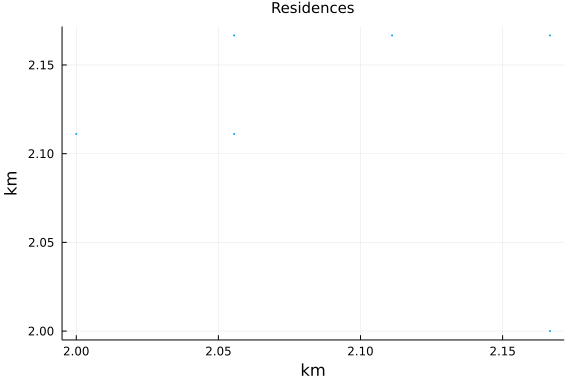
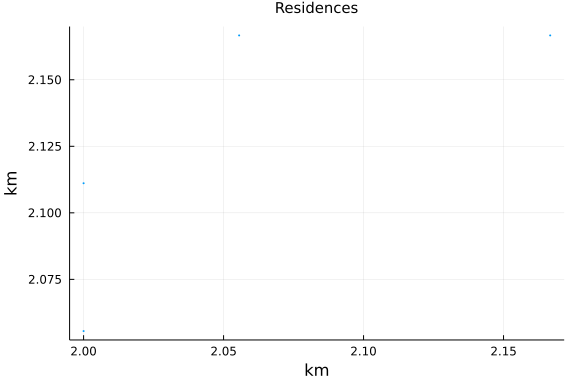
rename transition_rules; fix accumulating deceased

diff --git a/docs/src/examples/random_scenario.md b/docs/src/examples/random_scenario.md
@@ -275,12 +275,12 @@ res_blocks_distrib = EpiSiming.gen_res_blocks(pop_blocks, res_size_distribution)
 
 ```
 6×12 Matrix{Vector{Int64}}:
- [9, 18, 28, 20, 5, 4, 1, 0]  …  [0, 1, 5, 2, 0, 0, 0, 0]
- [3, 10, 12, 6, 2, 1, 0, 0]      [6, 15, 21, 13, 4, 3, 1, 0]
- [3, 7, 9, 5, 1, 1, 0, 0]        [6, 17, 25, 14, 3, 3, 1, 0]
- [6, 12, 14, 10, 2, 2, 0, 0]     [7, 17, 25, 16, 4, 3, 1, 0]
- [8, 15, 20, 12, 2, 2, 1, 0]     [4, 11, 15, 11, 2, 3, 1, 0]
- [6, 11, 16, 9, 2, 3, 0, 0]   …  [5, 11, 18, 11, 3, 2, 0, 0]
+ [9, 19, 30, 18, 5, 4, 1, 0]  …  [0, 3, 3, 1, 0, 1, 0, 0]
+ [4, 8, 12, 6, 1, 1, 0, 1]       [6, 14, 21, 13, 3, 3, 2, 0]
+ [3, 8, 7, 6, 1, 1, 0, 0]        [6, 18, 21, 15, 3, 4, 1, 0]
+ [4, 12, 14, 9, 2, 3, 0, 0]      [10, 15, 27, 16, 3, 3, 1, 0]
+ [6, 13, 18, 15, 2, 2, 1, 0]     [6, 10, 16, 12, 2, 3, 0, 0]
+ [5, 10, 16, 10, 3, 2, 0, 0]  …  [5, 12, 17, 11, 2, 3, 0, 0]
 ```
 
 
@@ -330,7 +330,7 @@ residences = EpiSiming.gen_residences(rng, res_blocks_distrib)
 ```
 
 ```
-3291-element EpiSiming.Residences{Int64, Float64}:
+3274-element EpiSiming.Residences{Int64, Float64}:
  (1, (1.5555555555555556, 1.3888888888888888), 1, [1])
  (1, (1.5, 1.0), 1, [2])
  (1, (1.5, 1.5), 1, [3])
@@ -342,18 +342,19 @@ residences = EpiSiming.gen_residences(rng, res_blocks_distrib)
  (1, (1.6111111111111112, 1.6111111111111112), 1, [9])
  (1, (1.7222222222222223, 1.7222222222222223), 2, [10, 11])
  ⋮
- (72, (6.714285714285714, 12.071428571428571), 4, [9958, 9959, 9960, 9961])
- (72, (6.5, 12.071428571428571), 4, [9962, 9963, 9964, 9965])
- (72, (6.857142857142857, 12.785714285714286), 4, [9966, 9967, 9968, 9969])
- (72, (6.214285714285714, 12.214285714285714), 4, [9970, 9971, 9972, 9973])
- (72, (6.0, 12.642857142857142), 5, [9974, 9975, 9976, 9977, 9978])
- (72, (6.857142857142857, 12.142857142857142), 5, [9979, 9980, 9981, 9982, 
-9983])
- (72, (6.214285714285714, 12.357142857142858), 5, [9984, 9985, 9986, 9987, 
-9988])
- (72, (6.642857142857143, 12.285714285714286), 6, [9989, 9990, 9991, 9992, 
+ (72, (6.642857142857143, 12.642857142857142), 4, [9957, 9958, 9959, 9960])
+ (72, (6.714285714285714, 12.5), 4, [9961, 9962, 9963, 9964])
+ (72, (6.214285714285714, 12.928571428571429), 4, [9965, 9966, 9967, 9968])
+ (72, (6.642857142857143, 12.071428571428571), 4, [9969, 9970, 9971, 9972])
+ (72, (6.928571428571429, 12.428571428571429), 5, [9973, 9974, 9975, 9976, 
+9977])
+ (72, (6.142857142857143, 12.142857142857142), 5, [9978, 9979, 9980, 9981, 
+9982])
+ (72, (6.714285714285714, 12.714285714285714), 6, [9983, 9984, 9985, 9986, 
+9987, 9988])
+ (72, (6.928571428571429, 12.285714285714286), 6, [9989, 9990, 9991, 9992, 
 9993, 9994])
- (72, (6.571428571428571, 12.285714285714286), 6, [9995, 9996, 9997, 9998, 
+ (72, (6.357142857142857, 12.714285714285714), 6, [9995, 9996, 9997, 9998, 
 9999, 10000])
 ```
 
@@ -422,45 +423,45 @@ population = EpiSiming.gen_population(
 
 ```
 10000-element EpiSiming.Population{Int64, EpiSiming.Phase}:
- (S, 1, 1, (1.5694444444444444, 1.3888888888888888), 44, 0.8429668909281123
+ (S, 1, 1, (1.5694444444444444, 1.3888888888888888), 48, 0.8429668909281123
 , 1.0871421914278978, Dict{Symbol, Int64}(), Dict{Symbol, Int64}())
  (S, 1, 2, (1.5138888888888888, 1.0), 34, 0.6346032739780121, 0.92885542105
 81556, Dict{Symbol, Int64}(), Dict{Symbol, Int64}())
- (S, 1, 3, (1.5138888888888888, 1.5), 9, 1.866136384893467, 0.6379958240264
-992, Dict{Symbol, Int64}(), Dict{Symbol, Int64}())
- (S, 1, 4, (1.7361111111111112, 1.2222222222222223), 43, 1.9630070493538805
+ (S, 1, 3, (1.5138888888888888, 1.5), 70, 1.866136384893467, 0.637995824026
+4992, Dict{Symbol, Int64}(), Dict{Symbol, Int64}())
+ (S, 1, 4, (1.7361111111111112, 1.2222222222222223), 39, 1.9630070493538805
 , 0.49089045628844613, Dict{Symbol, Int64}(), Dict{Symbol, Int64}())
- (S, 1, 5, (1.9583333333333333, 1.5), 23, 0.17974072857925905, 0.9196908284
+ (S, 1, 5, (1.9583333333333333, 1.5), 21, 0.17974072857925905, 0.9196908284
 361106, Dict{Symbol, Int64}(), Dict{Symbol, Int64}())
- (S, 1, 6, (1.347222222222222, 1.7777777777777777), 40, 0.8018440204599591,
- 0.8572836161482715, Dict{Symbol, Int64}(), Dict{Symbol, Int64}())
- (S, 1, 7, (1.5694444444444444, 1.0555555555555556), 42, 0.7121991800323644
+ (S, 1, 6, (1.347222222222222, 1.7777777777777777), 3, 0.8018440204599591, 
+0.8572836161482715, Dict{Symbol, Int64}(), Dict{Symbol, Int64}())
+ (S, 1, 7, (1.5694444444444444, 1.0555555555555556), 23, 0.7121991800323644
 , 1.4273823226339426, Dict{Symbol, Int64}(), Dict{Symbol, Int64}())
- (S, 1, 8, (1.5694444444444444, 1.2777777777777777), 6, 0.7803803598677808,
- 0.7458566679008322, Dict{Symbol, Int64}(), Dict{Symbol, Int64}())
- (S, 1, 9, (1.625, 1.6111111111111112), 12, 0.7533507391116316, 1.059750152
+ (S, 1, 8, (1.5694444444444444, 1.2777777777777777), 38, 0.7803803598677808
+, 0.7458566679008322, Dict{Symbol, Int64}(), Dict{Symbol, Int64}())
+ (S, 1, 9, (1.625, 1.6111111111111112), 56, 0.7533507391116316, 1.059750152
 7579962, Dict{Symbol, Int64}(), Dict{Symbol, Int64}())
- (S, 1, 10, (1.7361111111111112, 1.7222222222222223), 56, 1.058378472594778
+ (S, 1, 10, (1.7361111111111112, 1.7222222222222223), 73, 1.058378472594778
 5, 0.6163376056877701, Dict{Symbol, Int64}(), Dict{Symbol, Int64}())
  ⋮
- (S, 1, 3290, (6.625, 12.285714285714286), 39, 0.7425559871162212, 1.878529
-197903739, Dict{Symbol, Int64}(), Dict{Symbol, Int64}())
- (S, 1, 3290, (6.633928571428572, 12.270249546360994), 34, 1.34674187151745
-64, 0.6158224898743601, Dict{Symbol, Int64}(), Dict{Symbol, Int64}())
- (S, 1, 3290, (6.651785714285714, 12.270249546360994), 62, 0.57132546847696
-75, 1.2604338561736381, Dict{Symbol, Int64}(), Dict{Symbol, Int64}())
- (S, 1, 3291, (6.589285714285714, 12.285714285714286), 12, 0.71166954083545
-, 0.6573989249359745, Dict{Symbol, Int64}(), Dict{Symbol, Int64}())
- (S, 1, 3291, (6.580357142857142, 12.30117902506758), 59, 0.929912350184238
-7, 0.5603267260793015, Dict{Symbol, Int64}(), Dict{Symbol, Int64}())
- (S, 1, 3291, (6.5625, 12.30117902506758), 37, 0.3495478705397754, 0.770347
-2343146436, Dict{Symbol, Int64}(), Dict{Symbol, Int64}())
- (S, 1, 3291, (6.553571428571428, 12.285714285714286), 22, 0.69468128433558
-63, 2.073824042353887, Dict{Symbol, Int64}(), Dict{Symbol, Int64}())
- (S, 1, 3291, (6.5625, 12.270249546360994), 37, 1.1293777785439765, 1.40107
-40192330449, Dict{Symbol, Int64}(), Dict{Symbol, Int64}())
- (S, 1, 3291, (6.580357142857142, 12.270249546360994), 17, 0.89594542046504
-64, 1.9864694366090996, Dict{Symbol, Int64}(), Dict{Symbol, Int64}())
+ (S, 1, 3273, (6.910714285714286, 12.285714285714286), 26, 0.74255598711622
+12, 1.878529197903739, Dict{Symbol, Int64}(), Dict{Symbol, Int64}())
+ (S, 1, 3273, (6.919642857142858, 12.270249546360994), 5, 1.346741871517456
+4, 0.6158224898743601, Dict{Symbol, Int64}(), Dict{Symbol, Int64}())
+ (S, 1, 3273, (6.9375, 12.270249546360994), 56, 0.5713254684769675, 1.26043
+38561736381, Dict{Symbol, Int64}(), Dict{Symbol, Int64}())
+ (S, 1, 3274, (6.375, 12.714285714285714), 31, 0.71166954083545, 0.65739892
+49359745, Dict{Symbol, Int64}(), Dict{Symbol, Int64}())
+ (S, 1, 3274, (6.366071428571428, 12.729750453639006), 32, 0.92991235018423
+87, 0.5603267260793015, Dict{Symbol, Int64}(), Dict{Symbol, Int64}())
+ (S, 1, 3274, (6.348214285714286, 12.729750453639006), 51, 0.34954787053977
+54, 0.7703472343146436, Dict{Symbol, Int64}(), Dict{Symbol, Int64}())
+ (S, 1, 3274, (6.3392857142857135, 12.714285714285714), 50, 0.6946812843355
+863, 2.073824042353887, Dict{Symbol, Int64}(), Dict{Symbol, Int64}())
+ (S, 1, 3274, (6.348214285714286, 12.69882097493242), 20, 1.129377778543976
+5, 1.4010740192330449, Dict{Symbol, Int64}(), Dict{Symbol, Int64}())
+ (S, 1, 3274, (6.366071428571428, 12.69882097493242), 25, 0.895945420465046
+4, 1.9864694366090996, Dict{Symbol, Int64}(), Dict{Symbol, Int64}())
 ```
 
 
@@ -713,14 +714,14 @@ display(plt)
 ### Initial infection
 
 ```julia
-num_exposed_at_time_0 = div(num_population, 500) # (= 0.2%) 20
+num_exposed_at_time_0 = div(num_population, 500) # ( 1/500 = 0.002 = 0.2%) 20 for 10_000
 
 exposed_at_time_0 = sample(rng, 1:num_population, num_exposed_at_time_0, replace = false)
 
 # population.phase[exposed_at_time_0] .= EXPOSED
 for n in exposed_at_time_0
     population.phase[n] = EXPOSED
-    next_change, next_phase = EpiSiming.evolution_rules(rng, EXPOSED)
+    next_change, next_phase = EpiSiming.transition_rules(rng, EXPOSED)
     population.evolve_to[n] = (next_phase, 1 + next_change)
 end
 ```
@@ -761,29 +762,30 @@ time_step = 1
 ```
 
 ```
-1.575204 seconds (26.17 k allocations: 22.264 MiB, 2.43% gc time)
-  0.234408 seconds (2 allocations: 19.766 KiB)
+2.287473 seconds (369.33 k allocations: 61.784 MiB, 1.90% gc time, 13.87%
+ compilation time)
+  0.240142 seconds (2 allocations: 19.766 KiB)
 360×7 Matrix{Int64}:
- 9980  20   0   0     0  0  0
- 9980  13   4   3     0  0  0
- 9979   9   7   4     1  0  0
- 9973  12   9   5     1  0  0
- 9971   9  11   6     3  0  0
- 9964  12  12   8     4  0  0
- 9959  14   9  10     8  0  0
- 9955  13  14   6    12  0  0
- 9948  17  12   8    15  0  0
- 9943  16  11  12    18  0  0
-    ⋮                    ⋮  
- 5872   0   0   0  4128  0  0
- 5872   0   0   0  4128  0  0
- 5872   0   0   0  4128  0  0
- 5872   0   0   0  4128  0  0
- 5872   0   0   0  4128  0  0
- 5872   0   0   0  4128  0  0
- 5872   0   0   0  4128  0  0
- 5872   0   0   0  4128  0  0
- 5872   0   0   0  4128  0  0
+ 9980  20   0  0     0    0  0
+ 9980  20   0  0     0    0  0
+ 9980  17   3  0     0    0  0
+ 9980  12   7  1     0    0  0
+ 9977  11   7  5     0    0  0
+ 9976   9   9  6     0    0  0
+ 9964  17  11  8     0    0  0
+ 9956  24  11  9     0    0  0
+ 9953  25  14  8     0    0  0
+ 9950  23  17  9     1    0  0
+    ⋮                     ⋮  
+ 1957   0   0  0  7894  149  0
+ 1957   0   0  0  7894  149  0
+ 1957   0   0  0  7894  149  0
+ 1957   0   0  0  7894  149  0
+ 1957   0   0  0  7894  149  0
+ 1957   0   0  0  7894  149  0
+ 1957   0   0  0  7894  149  0
+ 1957   0   0  0  7894  149  0
+ 1957   0   0  0  7894  149  0
 ```
 
 
